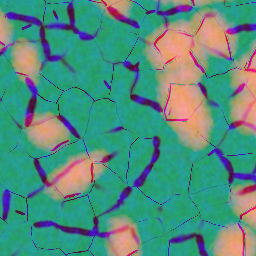
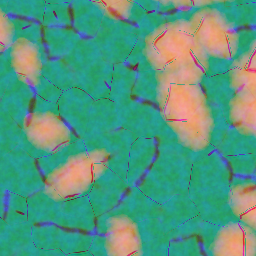
Атлас, метрики и карта быстрого пути [skip ci]

diff --git a/docs/PARAMS.md b/docs/PARAMS.md
@@ -47,7 +47,7 @@
 | `climate.cont_polar_c` | `6.0` | `6.0` |
 | `climate.cont_tropical_c` | `2.0` | `2.0` |
 | `climate.e_base` | `0.25` | `0.25` |
-| `climate.e_mnt` | `-0.85` | `-0.85` |
+| `climate.e_mnt` | `-0.75` | `-0.75` |
 | `climate.e_mnt_noise` | `0.25` | `0.25` |
 | `climate.e_noise` | `0.15` | `0.15` |
 | `climate.e_plateau` | `-0.3` | `-0.3` |
@@ -60,7 +60,7 @@
 | `climate.lapse_c_per_km` | `6.5` | `6.5` |
 | `climate.local_fraction_equator` | `0.55` | `0.55` |
 | `climate.local_fraction_width_deg` | `15.0` | `15.0` |
-| `climate.m_e_hi` | `0.6` | `0.6` |
+| `climate.m_e_hi` | `1.2` | `1.2` |
 | `climate.m_e_lo` | `0.05` | `0.05` |
 | `climate.ocean_c_threshold` | `-0.19` | `-0.19` |
 | `climate.p_min_mm` | `10.0` | `10.0` |
@@ -241,4 +241,4 @@
 | `wind.knot7.phi_deg` | `90` | `90` |
 | `wind.knot7.s` | `0.3` | `0.3` |
 
-params_hash: scientific = 1afb0f75328be359, gameplay = 9408b9cc1424def0
+params_hash: scientific = 064fb44b489356fb, gameplay = 8cd60458847fda7e
